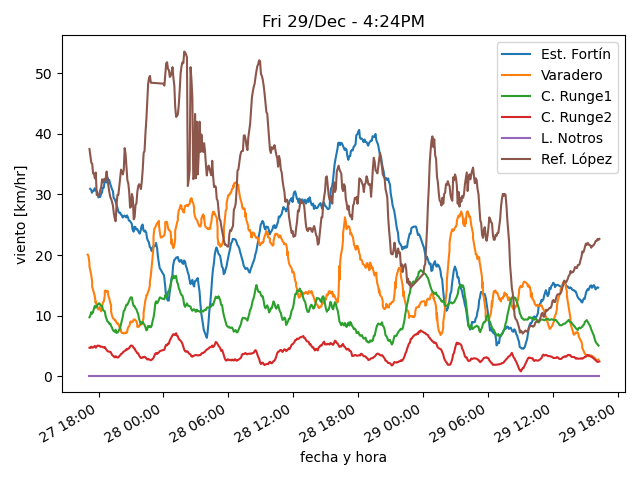
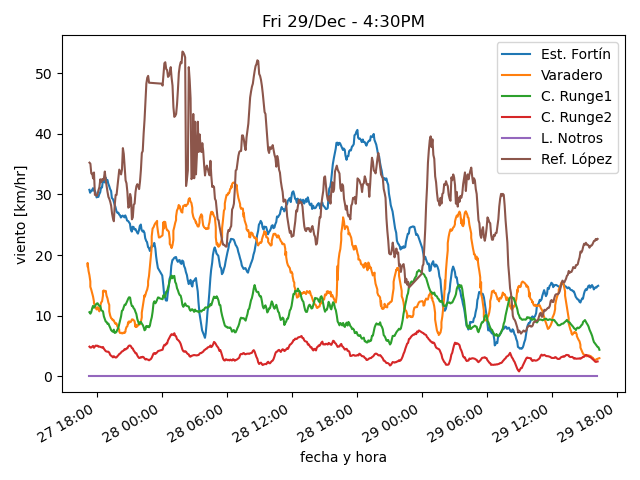
actualiza datos

diff --git a/estaciones/estacion1.html b/estaciones/estacion1.html
@@ -18,7 +18,17 @@
     </tr>
     <tr>
      <td class="stats_data">
-      4:08PM
+      4:18PM
+     </td>
+    </tr>
+    <tr>
+     <td class="stats_data">
+      26.1
+     </td>
+    </tr>
+    <tr>
+     <td class="stats_data">
+      5.1
      </td>
     </tr>
     <tr>
@@ -28,22 +38,12 @@
     </tr>
     <tr>
      <td class="stats_data">
-      4.1
-     </td>
-    </tr>
-    <tr>
-     <td class="stats_data">
-      24.5
-     </td>
-    </tr>
-    <tr>
-     <td class="stats_data">
       1016.59
      </td>
     </tr>
     <tr>
      <td class="stats_data">
-      9.7/16.1 SSE
+      9.5/14.5 S
      </td>
     </tr>
     <tr>
@@ -53,12 +53,12 @@
     </tr>
     <tr>
      <td class="stats_data">
-      6.7
+      6.3
      </td>
     </tr>
     <tr>
      <td class="stats_data">
-      844.0
+      819.0
      </td>
     </tr>
    </tbody>

diff --git a/estaciones/estacion2.html b/estaciones/estacion2.html
@@ -18,32 +18,32 @@
     </tr>
     <tr>
      <td class="stats_data">
-      4:09PM
+      4:24PM
      </td>
     </tr>
     <tr>
      <td class="stats_data">
-      22.0
+      22.1
      </td>
     </tr>
     <tr>
      <td class="stats_data">
-      14.3
+      11.8
      </td>
     </tr>
     <tr>
      <td class="stats_data">
-      61.5
+      52.4
      </td>
     </tr>
     <tr>
      <td class="stats_data">
-      1014.02
+      1013.82
      </td>
     </tr>
     <tr>
      <td class="stats_data">
-      2.9/3.3 NE
+      2.2/3.0 N
      </td>
     </tr>
     <tr>
@@ -58,7 +58,7 @@
     </tr>
     <tr>
      <td class="stats_data">
-      864.9
+      890.6
      </td>
     </tr>
    </tbody>

diff --git a/estaciones/estacion3.html b/estaciones/estacion3.html
@@ -18,32 +18,32 @@
     </tr>
     <tr>
      <td class="stats_data">
-      4:09PM
+      4:24PM
      </td>
     </tr>
     <tr>
      <td class="stats_data">
-      24.1
+      23.5
      </td>
     </tr>
     <tr>
      <td class="stats_data">
-      5.6
+      5.8
      </td>
     </tr>
     <tr>
      <td class="stats_data">
-      30.4
+      31.9
      </td>
     </tr>
     <tr>
      <td class="stats_data">
-      1010.53
+      1010.43
      </td>
     </tr>
     <tr>
      <td class="stats_data">
-      2.8/3.8 NW
+      2.6/3.4 W
      </td>
     </tr>
     <tr>
@@ -58,7 +58,7 @@
     </tr>
     <tr>
      <td class="stats_data">
-      761.3
+      728.3
      </td>
     </tr>
    </tbody>
